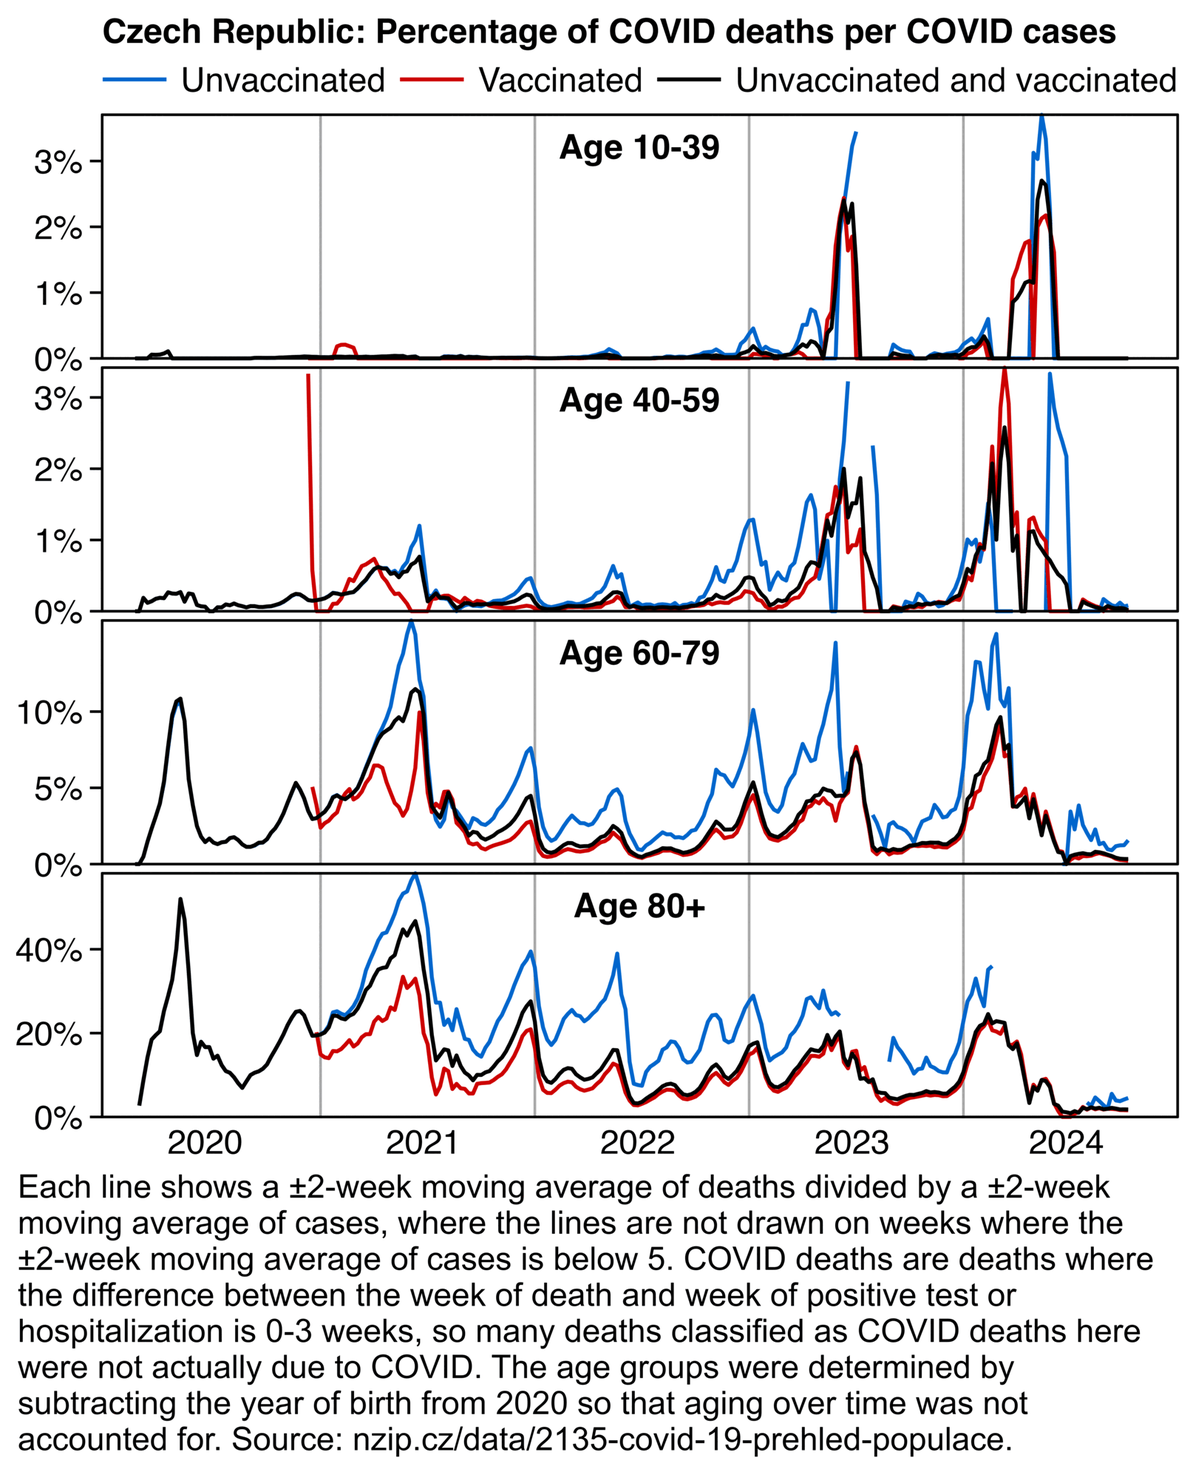
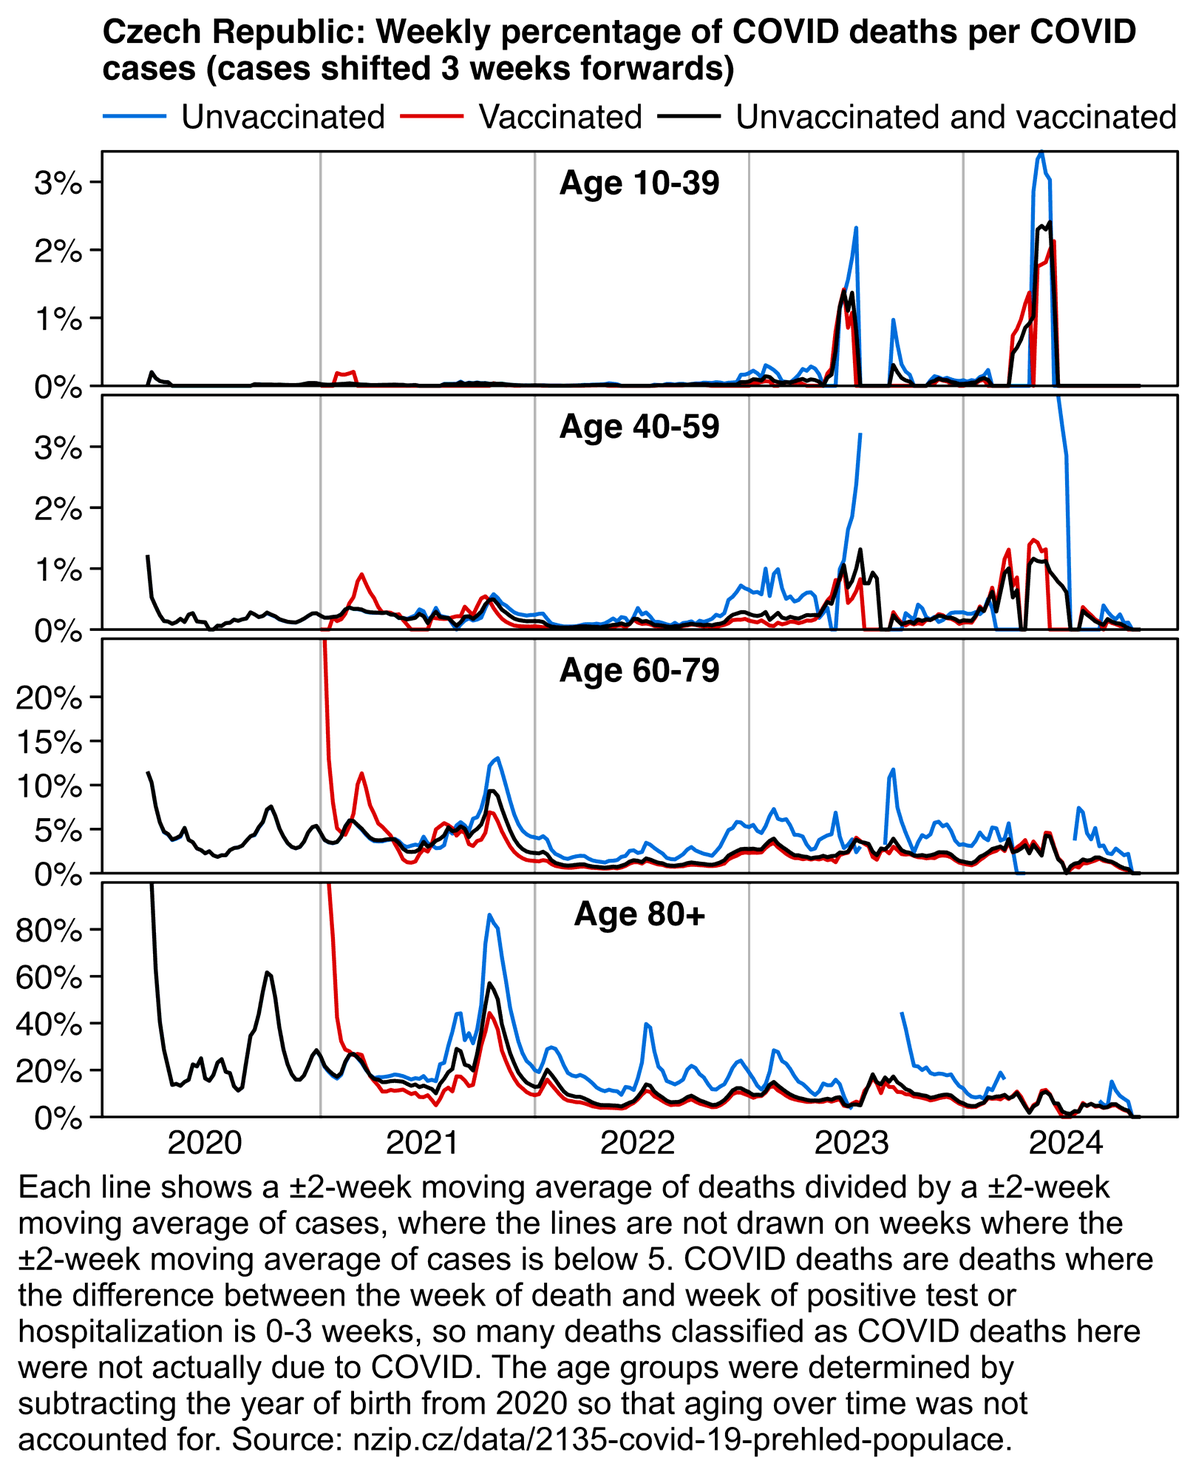
a

Changed region(s): [[0.0, 0.0, 0.9913, 0.7789], [0.8984, 0.7166, 0.9603, 0.7789], [0.9603, 0.592, 0.9913, 0.6231]]

diff --git a/czech4.html b/czech4.html
@@ -86,7 +86,7 @@ blockquote blockquote blockquote,blockquote blockquote .quote,blockquote .quote 
 <li><a href=#Mortality_risk_ratio_within_year_from_vaccination_in_new_UZIS_data>Mortality risk ratio within year from vaccination in new UZIS data</a></li>
 <li><a href=#Hospitalizations_by_weeks_after_vaccination_in_new_UZIS_data>Hospitalizations by weeks after vaccination in new UZIS data</a></li>
 <li><a href=#Relative_risk_of_Moderna_and_Pfizer_in_low_COVID_months>Relative risk of Moderna and Pfizer in low-COVID months</a></li>
-<li><a href=#Cases_and_CFR_in_new_UZIS_data>Cases and CFR in new UZIS data</a></li>
+<li><a href=#Case_fatality_ratio_in_new_UZIS_data>Case fatality ratio in new UZIS data</a></li>
 </ul>
 
 <h2>
@@ -1296,7 +1296,7 @@ week of recovery
 <tr><td>
 Umrti
 </td><td>
-week of death
+week of COVID death
 </td></tr>
 <tr><td>
 Symptom
@@ -1511,7 +1511,7 @@ variant
 <tr><td>
 DatumUmrtiLPZ
 </td><td>
-date of death
+week of death from any cause
 </td></tr>
 <tr><td>
 Long_COVID
@@ -1594,14 +1594,28 @@ Deyo-Charlson Comorbidity Index
 4:       2020-12     2318
 5:       2020-13     2290
 6:       2020-14     2322</pre>
-<p>There's two different columns for the week of death: <code>Umrti</code> (death) and <code>DatumUmrtiLPZ</code> (date of death LPZ). LPZ is the Czech death certificate registry. [<a href="https://www.uzis.cz/index.php?pg=registry-sber-dat--ostatni-rezortni-registry--list-o-prohlidce-zemreleho"><a href="https://www.uzis.cz/index.php?pg=registry-sber-dat">https://www.uzis.cz/index.php?pg=registry-sber-dat</a>--ostatni-rezortni-registry--list-o-prohlidce-zemreleho</a>] For most dead people the date of death is listed in the <code>DatumUmrtiLPZ</code> column, but there's 829 rows where the <code>DatumUmrtiLPZ</code> column is empty but the <code>Umrti</code> column is not:</p>
-<pre>&gt; t[DatumUmrtiLPZ!=&quot;&quot;,.N] # more common column for week of death
+<p>There's two different columns for the week of death: <code>Umrti</code> (COVID death) and <code>DatumUmrtiLPZ</code> (date of death LPZ). LPZ is the Czech death certificate registry. [<a href="https://www.uzis.cz/index.php?pg=registry-sber-dat--ostatni-rezortni-registry--list-o-prohlidce-zemreleho"><a href="https://www.uzis.cz/index.php?pg=registry-sber-dat">https://www.uzis.cz/index.php?pg=registry-sber-dat</a>--ostatni-rezortni-registry--list-o-prohlidce-zemreleho</a>] There's 829 rows where the <code>DatumUmrtiLPZ</code> column is empty but the <code>Umrti</code> column for a COVID death is not:</p>
+<pre>&gt; t[DatumUmrtiLPZ!=&quot;&quot;,.N] # date of death in death certificate registry
 [1] 562774
-&gt; t[Umrti!=&quot;&quot;,.N] # less common column for week of death
+&gt; t[Umrti!=&quot;&quot;,.N] # date of COVID death
 [1] 43633
-&gt; t[DatumUmrtiLPZ!=&quot;&quot;|Umrti!=&quot;&quot;,.N] # 563603-562774 = 829
-[1] 563603</pre>
-<p>About 2,000 people have a date of positive test after the date of death, but in most cases the difference is only 1 or 2 weeks, so it might be if the date of positive tests is by reporting date:</p>
+&gt; t0[DatumUmrtiLPZ==&quot;&quot;&amp;Umrti!=&quot;&quot;,.N] # number of rows with only date of COVID death listed
+[1] 829</pre>
+<p>There are 354 rows where the date of death is not the same as the date of a COVID death, even though the difference is only one week in most cases:</p>
+<pre>&gt; t[Umrti!=&quot;&quot;&amp;DatumUmrtiLPZ!=&quot;&quot;&amp;DatumUmrtiLPZ!=Umrti,.(DatumUmrtiLPZ,Umrti)]
+     DatumUmrtiLPZ   Umrti
+  1:       2022-03 2022-04
+  2:       2021-12 2021-13
+  3:       2020-47 2020-48
+  4:       2021-11 2021-10
+  5:       2020-51 2020-52
+ ---
+350:       2021-15 2021-14
+351:       2020-43 2020-44
+352:       2021-06 2021-07
+353:       2021-01 2021-02
+354:       2022-44 2022-43</pre>
+<p>About 2,000 people have a date of positive test after a date of death, but in most cases the difference is only 1 or 2 weeks, so it might be if the date of positive tests is by reporting date:</p>
 <pre>&gt; t[DatumUmrtiLPZ!=&quot;&quot;&amp;DatumUmrtiLPZ&lt;DatumPozitivity,.(DatumPozitivity,DatumUmrtiLPZ)]
       DatumPozitivity DatumUmrtiLPZ
    1:         2024-03       2024-01
@@ -2149,9 +2163,107 @@ dplyr::mutate_if(o,is.double,round,3)[order(-pop)]|&gt;print(r=F)
 o[type==&quot;Moderna&quot;,rr]/o[type==&quot;Pfizer&quot;,rr]
 # 1.46563</pre>
 <h2>
-<a href=#Cases_and_CFR_in_new_UZIS_data id=Cases_and_CFR_in_new_UZIS_data>Cases and CFR in new UZIS data</a>
+<a href=#Case_fatality_ratio_in_new_UZIS_data id=Case_fatality_ratio_in_new_UZIS_data>Case fatality ratio in new UZIS data</a>
 </h2>
-<p>In the winter of 2020-2021 deaths and hospitalizations had a pattern with three distinct humps, where in ages 80+ where about half of people had been vaccinated by the time of the third hump, the third hump was lower than the first and second humps. However the same is true of cases, where in ages 80+ the third hump was much lower than the first two humps, but in ages 60-79, 40-59, and 10-39 the third hump was about as high as the first two humps:</p>
+<p>Kirsch posted this tweet: [<a href="https://x.com/stkirsch/status/1888449481668223379">https://x.com/stkirsch/status/1888449481668223379</a>]</p>
+<div class="width6">
+<img src="i/czech-cfr-3.png">
+</div>
+<p>My plot didn't show IFR but CFR. But anyway the reason why the CFR went up in the first half of 2021 was because both deaths and cases were going down, but deaths were lagging about 2-3 weeks behind deaths. When I shifted the cases forwards by 3 weeks, the CFR went down in the first half of 2021 instead:</p>
+<div class="width6">
+<img src="i/czech-cfr-1.png">
+</div>
+<div class="spoiler">
+<button>
+Show code
+</button><pre>library(data.table);library(ggplot2)
+
+ma=\(x,b=1,f=b){x[]=rowMeans(embed(c(rep(NA,b),x,rep(NA,f)),f+b+1),na.rm=T);x}
+
+agecut=\(x,y)cut(x,c(y,Inf),paste0(y,c(paste0(&quot;-&quot;,y[-1]-1),&quot;+&quot;)),T,F)
+ages=c(10,40,60,80)
+
+weeks=unique(format(seq(as.Date(&quot;2020-1-1&quot;),as.Date(&quot;2024-12-31&quot;),1),&quot;%G-%V&quot;))
+
+t=fread(&quot;Otevrena-data-NR-26-30-COVID-19-prehled-populace-2024-01.csv.gz&quot;)
+t=t[RokNarozeni!=&quot;-&quot;]
+t[,age:=pmin(100,(2020-as.integer(substr(RokNarozeni,1,4))))]
+t=t[!is.na(age)]
+
+t[,dead:=ifelse(DatumUmrtiLPZ==&quot;&quot;,Umrti,DatumUmrtiLPZ)]
+t[,dosecase:=ifelse(Datum_Prvni_davka!=&quot;&quot;&amp;Datum_Prvni_davka&lt;=DatumPozitivity,1,0)]
+t[,dosedead:=ifelse(Datum_Prvni_davka!=&quot;&quot;,1,0)]
+
+a=t[DatumPozitivity!=&quot;&quot;,.(y=.N,z=&quot;case&quot;),.(week=DatumPozitivity,dose=dosecase,age)]
+t[,testlag:=match(dead,weeks)-match(DatumPozitivity,weeks)]
+t[,hosplag:=match(dead,weeks)-match(max_Hospitalizace,weeks)]
+a=rbind(a,t[pmax(testlag%in%0:3,hosplag%in%0:3)==1,.(y=.N,z=&quot;dead&quot;),.(week=dead,dose=dosedead,age)])
+
+w=dcast(a,age+week+dose~z,value.var=&quot;y&quot;)
+w=merge(do.call(CJ,lapply(w[,1:3],unique)),w,all.x=T)
+w[,case:=nafill(case,,0)][,dead:=nafill(dead,,0)]
+w=w[,.(dead=sum(dead),case=sum(case)),.(age=agecut(age,ages),week=match(week,weeks),dose)]
+w=rbind(w,w[,.(dead=sum(dead),case=sum(case),dose=2),.(age,week)])
+
+lab=c(&quot;Unvaccinated&quot;,&quot;Vaccinated&quot;,&quot;Unvaccinated and vaccinated&quot;)
+w[,z:=factor(dose,,lab)]
+
+p=merge(w[,.(case=ma(case,2),x=week+3),.(age,z)],w[,.(dead=ma(dead,2),x=week),.(age,z)],all=T)
+p[is.na(case),case:=0][is.na(dead),dead:=0]
+p[,y:=ifelse(case&lt;5,NA,dead/case*100)]
+p=p[!is.na(age)]
+p[y&gt;100,y:=100]
+
+xstart=1;xend=length(weeks)
+
+ggplot(p,aes(x))+
+facet_wrap(~age,ncol=1,strip.position=&quot;top&quot;,dir=&quot;v&quot;,scales=&quot;free_y&quot;)+
+geom_vline(xintercept=grep(&quot;-01&quot;,weeks),linewidth=.4,color=&quot;gray66&quot;,lineend=&quot;square&quot;)+
+geom_line(aes(y=y,color=z,linetype=z),linewidth=.6)+
+geom_text(data=p[,.(ymax=max(y,na.rm=T)),age],aes(label=sprintf(&quot;\n  Age %s  \n&quot;,age),y=ymax*.87),x=mean(c(xstart,xend)),hjust=.5,size=3.9,fontface=2)+
+labs(x=NULL,y=NULL,title=&quot;Czech Republic: Weekly percentage of COVID deaths per COVID\ncases (cases shifted 3 weeks forwards)&quot;)+
+scale_x_continuous(limits=c(xstart,xend),breaks=grep(&quot;-26&quot;,weeks),labels=2020:2024)+
+scale_y_continuous(breaks=\(x){y=pretty(x,4);y[y&lt;max(x)*.9]},labels=\(x)paste0(x,&quot;%&quot;))+
+scale_color_manual(values=c(hsv(c(7,0)/12,1,.8),&quot;black&quot;,hsv(30/36,.5,1)))+
+scale_linetype_manual(values=c(&quot;solid&quot;,&quot;solid&quot;,&quot;solid&quot;,&quot;42&quot;))+
+coord_cartesian(clip=&quot;off&quot;,expand=F)+
+guides(color=guide_legend(nrow=1,byrow=F))+
+theme(axis.text=element_text(size=11,color=&quot;black&quot;),
+  axis.ticks=element_line(color=&quot;black&quot;,linewidth=.4),
+  axis.text.x=element_text(margin=margin(4)),
+  axis.ticks.length.x=unit(0,&quot;pt&quot;),
+  axis.ticks.length.y=unit(4,&quot;pt&quot;),
+  legend.background=element_blank(),
+  legend.box.spacing=unit(0,&quot;pt&quot;),
+  legend.direction=&quot;horizontal&quot;,
+  legend.justification=&quot;right&quot;,
+  legend.key=element_blank(),
+  legend.key.height=unit(13,&quot;pt&quot;),
+  legend.key.width=unit(26,&quot;pt&quot;),
+  legend.margin=margin(,,5),
+  legend.position=&quot;top&quot;,
+  legend.spacing.x=unit(2,&quot;pt&quot;),
+  legend.spacing.y=unit(0,&quot;pt&quot;),
+  legend.text=element_text(size=11,vjust=.5),
+  legend.title=element_blank(),
+  panel.background=element_blank(),
+  panel.border=element_rect(fill=NA,linewidth=.4),
+  panel.grid=element_blank(),
+  panel.spacing=unit(3,&quot;pt&quot;),
+  plot.margin=margin(5,5,5,5),
+  plot.title=element_text(size=11,face=&quot;bold&quot;,margin=margin(1,,3)),
+  strip.background=element_blank(),
+  strip.text=element_blank())
+ggsave(&quot;1.png&quot;,width=5.38,height=5.3,dpi=300*4)
+sub=&quot;Each line shows a ±2-week moving average of deaths divided by a ±2-week moving average of cases, where the lines are not drawn on weeks where the ±2-week moving average of cases is below 5. COVID deaths are deaths where the difference between the week of death and week of positive test or hospitalization is 0-3 weeks, so many deaths classified as COVID deaths here were not actually due to COVID. The age groups were determined by subtracting the year of birth from 2020 so that aging over time was not accounted for. Source: nzip.cz/data/2135-covid-19-prehled-populace.&quot;
+system(paste0(&quot;mar=$[24*4];w=`identify -format %w 1.png`;magick \\( 1.png -gravity southwest -chop 0x50 \\) \\( -size $[w-mar*2]x -font Arial -interline-spacing -3 -pointsize $[44*4] caption:&#39;&quot;,gsub(&quot;&#39;&quot;,&quot;&#39;\\\\&#39;&quot;,sub),&quot;&#39; -gravity southwest -splice $[mar]x$[20*4] \\) -append -resize 25% PNG8:1.png&quot;))</pre>
+</div>
+<p>The two previous plots show that regardless of whether I shifted the cases forwards or not, unvaccinated people had higher CFR than vaccinated people. Within age groups unvaccinated people had both higher COVID mortality rate than vaccinated people and a higher rate of COVID cases, but the difference in deaths was bigger than the difference in cases, which explains why unvaccinated people also had higher CFR.</p>
+<p>In the two previous plots I treated deaths that occurred within three weeks of a positive test or hospitalization as COVID deaths, because I thought that the new UZIS dataset did not indicate which deaths were due to COVID. However then I realized that the column <code>Umrti</code> showed the week of death for COVID deaths but the column <code>DatumUmrtiLPZ</code> showed the week of death for all-cause deaths. But actually it doesn't seem to make too much difference which definition for a COVID death I use, because when I determined the number of COVID deaths based on the <code>Umrti</code> column, the result was not much different from the number of deaths which occurred on the same week as the last week of a COVID hospitalization:</p>
+<div class="width6">
+<img src="i/czech-cfr-4.gif">
+</div>
+<p>In the winter of 2020-2021 deaths and hospitalizations had a pattern with three distinct humps, where in ages 80+ where about half of people had been vaccinated by the time of the third hump, the third hump was lower than the first and second humps. However a similar pattern can be seen in the next plot for cases, where in ages 80+ the third hump was much lower than the first two humps, but in ages 60-79, 40-59, and 10-39 the third hump was about as high as the first two humps:</p>
 <div class="width6">
 <img src="i/czech-cfr-2.png">
 </div>
@@ -2245,91 +2357,6 @@ ggsave(&quot;1.png&quot;,width=5.3,height=5.3,dpi=300*4)
 
 sub=&quot;The 2021 census population by 5-year age groups was used as the standard population. People were given a year of birth as a range of 5 years like 1950-1954, so here each person was assigned to a 5-year age group by subtracting the year of birth from 2020 so that aging over time was not accounted for. The resident population estimates in the 2021 census were used as the standard population. The age-standardized rates are not shown on days with population size below 10,000. Sources: nzip.cz/data/2135-covid-19-prehled-populace (cases) and github.com/PalackyUniversity/uzis-data-analysis (number of vaccinated and unvaccinated people by age).&quot;
 system(paste0(&quot;mar=$[24*4];w=`identify -format %w 1.png`;magick \\( 1.png -gravity southwest -chop 0x70 \\) \\( -size $[w-mar*2]x -font Arial -interline-spacing -3 -pointsize $[44*4] caption:&#39;&quot;,gsub(&quot;&#39;&quot;,&quot;&#39;\\\\&#39;&quot;,sub),&quot;&#39; -gravity southwest -splice $[mar]x$[20*4] \\) -append -resize 25% -colors 256 1.png&quot;))</pre>
-</div>
-<p>The UZIS dataset did not have information about which deaths were attributed to COVID, so in the next plot I treated any death within 3 weeks of a positive test or hospitalization as a COVID death. However especially in ages 0-39 a large fraction of deaths were probably not actually due to COVID. The two youngest age groups have weeks with high CFR in 2023 and 2024, because there were 5-week windows with a single death and a small number of cases (even though many of the deaths in ages 0-39 were not actually due to COVID):</p>
-<div class="width6">
-<img src="i/czech-cfr-1.png">
-</div>
-<div class="spoiler">
-<button>
-Show code
-</button><pre>library(data.table);library(ggplot2)
-
-ma=\(x,b=1,f=b){x[]=rowMeans(embed(c(rep(NA,b),x,rep(NA,f)),f+b+1),na.rm=T);x}
-
-agecut=\(x,y)cut(x,c(y,Inf),paste0(y,c(paste0(&quot;-&quot;,y[-1]-1),&quot;+&quot;)),T,F)
-ages=c(10,40,60,80)
-
-weeks=unique(format(seq(as.Date(&quot;2020-1-1&quot;),as.Date(&quot;2024-12-31&quot;),1),&quot;%G-%V&quot;))
-
-t=fread(&quot;Otevrena-data-NR-26-30-COVID-19-prehled-populace-2024-01.csv.gz&quot;)
-t[RokNarozeni!=&quot;-&quot;,age:=pmin(100,(2020-as.integer(substr(RokNarozeni,1,4))))]
-t=t[!is.na(age)]
-
-t[,dead:=ifelse(DatumUmrtiLPZ==&quot;&quot;,Umrti,DatumUmrtiLPZ)]
-t[,dosecase:=ifelse(Datum_Prvni_davka!=&quot;&quot;&amp;Datum_Prvni_davka&lt;=DatumPozitivity,1,0)]
-t[,dosedead:=ifelse(Datum_Prvni_davka!=&quot;&quot;,1,0)]
-
-a=t[DatumPozitivity!=&quot;&quot;,.(y=.N,z=&quot;case&quot;),.(week=DatumPozitivity,dose=dosecase,age)]
-t[,testlag:=match(dead,weeks)-match(DatumPozitivity,weeks)]
-t[,hosplag:=match(dead,weeks)-match(max_Hospitalizace,weeks)]
-a=rbind(a,t[pmax(testlag%in%0:3,hosplag%in%0:3)==1,.(y=.N,z=&quot;dead&quot;),.(week=dead,dose=dosedead,age)])
-
-w=dcast(a,age+week+dose~z,value.var=&quot;y&quot;)
-w=merge(do.call(CJ,lapply(w[,1:3],unique)),w,all.x=T)
-w[,case:=nafill(case,,0)][,dead:=nafill(dead,,0)]
-w=w[,.(dead=sum(dead),case=sum(case)),.(age=agecut(age,ages),week,dose)]
-w=rbind(w,w[,.(dead=sum(dead),case=sum(case),dose=2),.(age,week)])
-
-lab=c(&quot;Unvaccinated&quot;,&quot;Vaccinated&quot;,&quot;Unvaccinated and vaccinated&quot;)
-p=w[,.(casema=ma(case,2),y=ma(dead,2)/ma(case,2)*1e2,x=week),.(age,z=factor(dose,,lab))]
-p[casema&lt;5,y:=NA]
-
-p=p[!is.na(age)]
-p[,x:=as.integer(factor(x,weeks))]
-xstart=1;xend=length(weeks)
-
-ggplot(p,aes(x))+
-facet_wrap(~age,ncol=1,strip.position=&quot;top&quot;,dir=&quot;v&quot;,scales=&quot;free_y&quot;)+
-geom_vline(xintercept=grep(&quot;-01&quot;,weeks),linewidth=.4,color=&quot;gray66&quot;,lineend=&quot;square&quot;)+
-geom_line(aes(y=y,color=z,linetype=z),linewidth=.6)+
-geom_text(data=p[,.(ymax=max(y,na.rm=T)),age],aes(label=sprintf(&quot;\n  Age %s  \n&quot;,age),y=ymax*.87),x=mean(c(xstart,xend)),hjust=.5,size=3.9,fontface=2)+
-labs(x=NULL,y=NULL,title=&quot;Czech Republic: Percentage of COVID deaths per COVID cases&quot;)+
-scale_x_continuous(limits=c(xstart,xend),breaks=grep(&quot;-26&quot;,weeks),labels=2020:2024)+
-scale_y_continuous(breaks=\(x){y=pretty(x,4);y[y&lt;max(x)*.9]},labels=\(x)paste0(x,&quot;%&quot;))+
-scale_color_manual(values=c(hsv(c(7,0)/12,1,.8),&quot;black&quot;,hsv(30/36,.5,1)))+
-scale_linetype_manual(values=c(&quot;solid&quot;,&quot;solid&quot;,&quot;solid&quot;,&quot;42&quot;))+
-coord_cartesian(clip=&quot;off&quot;,expand=F)+
-guides(color=guide_legend(nrow=1,byrow=F))+
-theme(axis.text=element_text(size=11,color=&quot;black&quot;),
-  axis.ticks=element_line(color=&quot;black&quot;,linewidth=.4),
-  axis.text.x=element_text(margin=margin(4)),
-  axis.ticks.length.x=unit(0,&quot;pt&quot;),
-  axis.ticks.length.y=unit(4,&quot;pt&quot;),
-  legend.background=element_blank(),
-  legend.box.spacing=unit(0,&quot;pt&quot;),
-  legend.direction=&quot;horizontal&quot;,
-  legend.justification=&quot;right&quot;,
-  legend.key=element_blank(),
-  legend.key.height=unit(13,&quot;pt&quot;),
-  legend.key.width=unit(26,&quot;pt&quot;),
-  legend.margin=margin(,,5),
-  legend.position=&quot;top&quot;,
-  legend.spacing.x=unit(2,&quot;pt&quot;),
-  legend.spacing.y=unit(0,&quot;pt&quot;),
-  legend.text=element_text(size=11,vjust=.5),
-  legend.title=element_blank(),
-  panel.background=element_blank(),
-  panel.border=element_rect(fill=NA,linewidth=.4),
-  panel.grid=element_blank(),
-  panel.spacing=unit(3,&quot;pt&quot;),
-  plot.margin=margin(5,5,5,5),
-  plot.title=element_text(size=11,face=&quot;bold&quot;,margin=margin(1,,3)),
-  strip.background=element_blank(),
-  strip.text=element_blank())
-ggsave(&quot;1.png&quot;,width=5.38,height=5.3,dpi=300*4)
-sub=&quot;Each line shows a ±2-week moving average of deaths divided by a ±2-week moving average of cases, where the lines are not drawn on weeks where the ±2-week moving average of cases is below 5. COVID deaths are deaths where the difference between the week of death and week of positive test or hospitalization is 0-3 weeks, so many deaths classified as COVID deaths here were not actually due to COVID. The age groups were determined by subtracting the year of birth from 2020 so that aging over time was not accounted for. Source: nzip.cz/data/2135-covid-19-prehled-populace.&quot;
-system(paste0(&quot;mar=$[24*4];w=`identify -format %w 1.png`;magick \\( 1.png -gravity southwest -chop 0x50 \\) \\( -size $[w-mar*2]x -font Arial -interline-spacing -3 -pointsize $[44*4] caption:&#39;&quot;,gsub(&quot;&#39;&quot;,&quot;&#39;\\\\&#39;&quot;,sub),&quot;&#39; -gravity southwest -splice $[mar]x$[20*4] \\) -append -resize 25% -colors 256 1.png&quot;))</pre>
 </div>
 <script>
 let q=document.querySelectorAll('a,code,pre')

diff --git a/statistic2.html b/statistic2.html
@@ -86,6 +86,7 @@ blockquote blockquote blockquote,blockquote blockquote .quote,blockquote .quote 
 <li><a href=#Clare_Craig_Correlation_for_excess_mortality_between_first_and_second_half_of_the_year_across_US_states>Clare Craig: Correlation for excess mortality between first and second half of the year across US states</a></li>
 <li><a href=#Steve_Kirsch_COVID_deaths_in_Israel_and_Palestine>Steve Kirsch: COVID deaths in Israel and Palestine</a></li>
 <li><a href=#Humanspective_Yearly_deaths_registered_in_Western_Australia>Humanspective: Yearly deaths registered in Western Australia</a></li>
+<li><a href=#Jikkyleaks_Is_Short_Term_Mortality_Fluctuations_data_synthetic>Jikkyleaks: Is Short-Term Mortality Fluctuations data synthetic?</a></li>
 </ul>
 
 <h2>
@@ -2020,6 +2021,36 @@ dev.off()</pre>
 <div class="width6">
 <img src="i/statistic-wa-3.png">
 </div>
+<h2>
+<a href=#Jikkyleaks_Is_Short_Term_Mortality_Fluctuations_data_synthetic id=Jikkyleaks_Is_Short_Term_Mortality_Fluctuations_data_synthetic>Jikkyleaks: Is Short-Term Mortality Fluctuations data synthetic?</a>
+</h2>
+<p>Jikkyleaks claimed that the weekly data for deaths in the Short Term Mortality Fluctuations dataset is synthetic, because he said the US chart looks too smooth compared to other countries (never mind that the United States has a bigger sample size of deaths than most other countries): [<a href="https://x.com/Jikkyleaks/status/1888460292923023454">https://x.com/Jikkyleaks/status/1888460292923023454</a>]</p>
+<div class="width5">
+<img src="i/nopandemic-jikky-stmf-1.png">
+</div>
+<p>And another reason why he claimed STMF's data for the United States was fake was because the deaths in ages 0-14 and 15-64 were not integers: [<a href="https://x.com/Jikkyleaks/status/1888460292923023454">https://x.com/Jikkyleaks/status/1888460292923023454</a>]</p>
+<div class="width5">
+<img src="i/nopandemic-jikky-stmf-2.png">
+</div>
+<p>However STMF uses the same set of 5 age groups for each country (0-14, 15-64, 65-74, 75-84, and 85+), but in countries where data using the STMF age groups is not available, the deaths are estimated by modifying the source age groups to match the set of 5 age groups used by STMF: [<a href="https://mortality.org/File/GetDocument/Public/STMF/DOC/STMFmetadata.pdf">https://mortality.org/File/GetDocument/Public/STMF/DOC/STMFmetadata.pdf</a>]</p>
+<div class="width6">
+<img src="i/nopandemic-jikky-stmf-3.png">
+</div>
+<p>In STMF's data for the United States, the <span class="quote">&quot;Split&quot;</span> column is set to 1 on weeks before week 2 of 2018, because the deaths in the age groups 0-14 and 15-64 were aggregated by splitting the age group 0-24 in the source dataset: [<a href="https://mortality.org/File/GetDocument/Public/STMF/DOC/STMFNote.pdf">https://mortality.org/File/GetDocument/Public/STMF/DOC/STMFNote.pdf</a>]</p>
+<div class="width6">
+<img src="i/nopandemic-jikky-stmf-4.png">
+</div>
+<p>From week 2 of 2018 onwards STMF takes data for United States from CDC WONDER, which has weekly deaths available by single year of age, so the number of deaths in ages 0-14 and 15-64 is an integer:</p>
+<pre>&gt; t=fread(&quot;https://mortality.org/File/GetDocument/Public/STMF/Outputs/USAstmfout.csv&quot;)
+&gt; t[Year==2018&amp;Week==2]
+   CountryCode Year Week Sex 0-14 15-64 65-74 75-84   85+ Total         0-14
+1:         USA 2018    2   m  344  9649  7232  8088  8525 33838 0.0005754174
+2:         USA 2018    2   f  254  6069  5338  7904 14090 33655 0.0004437378
+3:         USA 2018    2   b  598 15718 12570 15992 22615 67493 0.0005110076
+         15-64      65-74      75-84       85+      Total Split SplitSex Forecast
+1: 0.004708126 0.02644446 0.06265665 0.2076971 0.01094772     0        0        0
+2: 0.002949337 0.01711209 0.04753659 0.1879991 0.01057228     0        0        0
+3: 0.003826951 0.02147169 0.05414476 0.1949695 0.01075724     0        0        0</pre>
 <script>
 let q=document.querySelectorAll('a,code,pre')
 for(let i=0;e=q[i];i++)e.innerHTML=e.innerHTML.replace(/(\w{60,})/g,x=>x.replace(/./g,'$&<wbr>')).replace(/([\041-\045\047-\057\072\075\077-\100\133-\137\173-\176])/g,'$1<wbr>')
